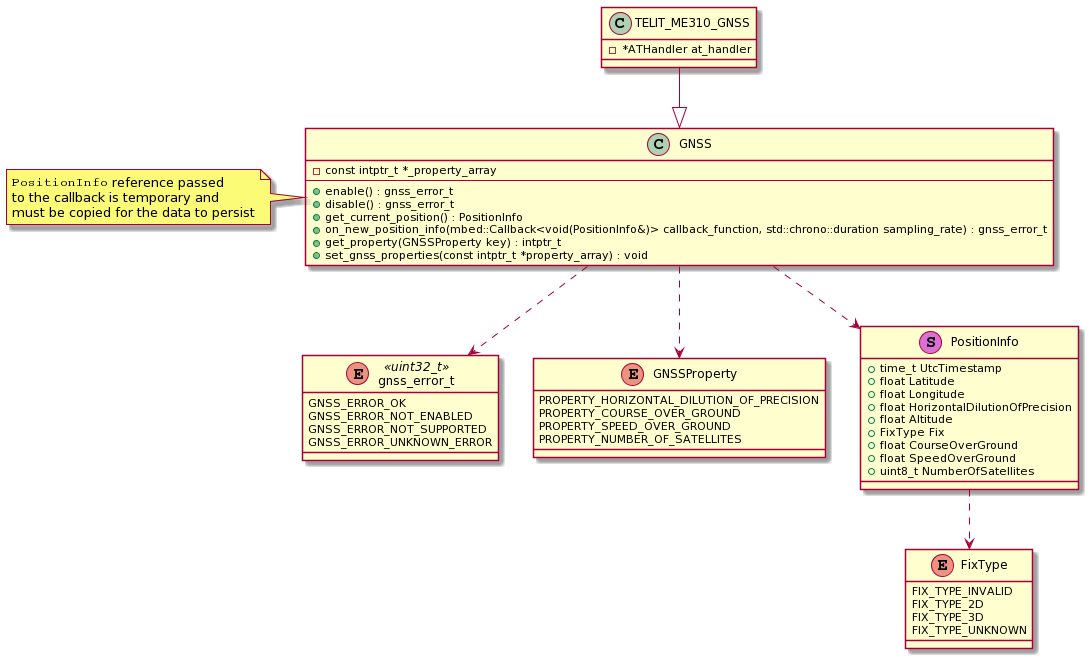
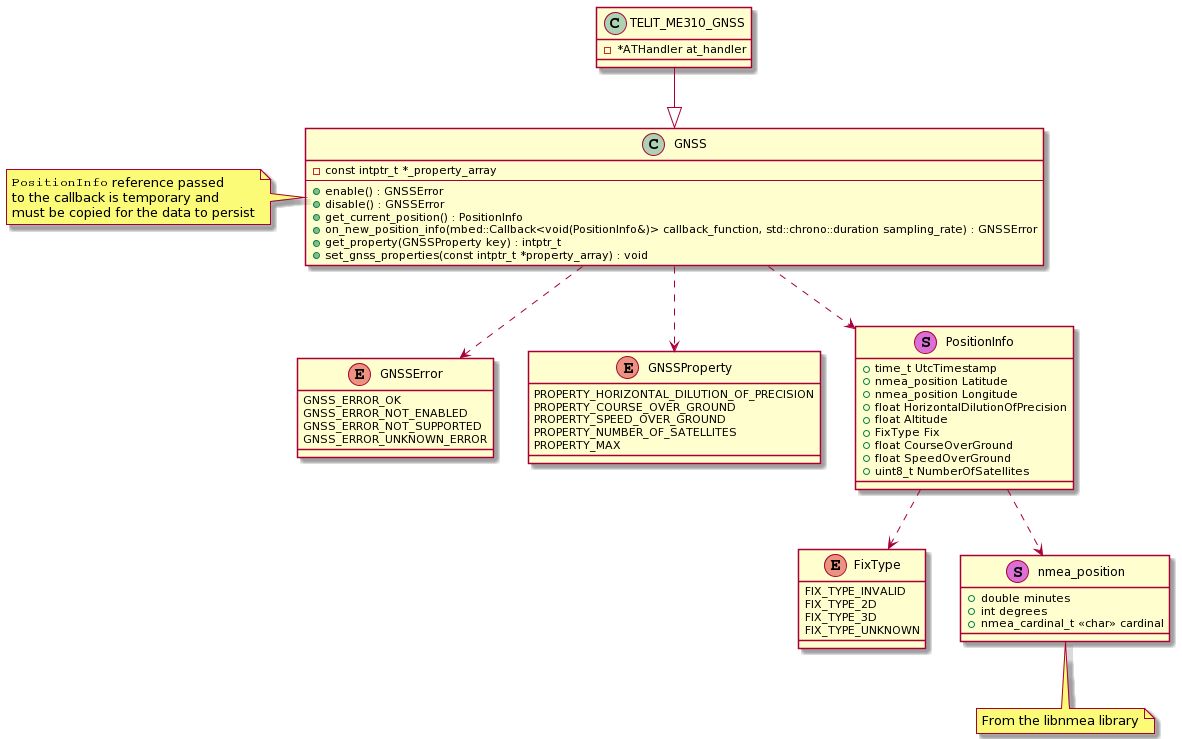
WIP: More work to fill in the service structure -> does not link!

diff --git a/extensions/GNSS/GNSS.h b/extensions/GNSS/GNSS.h
@@ -1,0 +1,119 @@
+/**
+ * ep-oc-mcu
+ * Embedded Planet Open Core for Microcontrollers
+ * 
+ * Built with ARM Mbed-OS
+ *
+ * Copyright (c) 2021 Embedded Planet, Inc.
+ * SPDX-License-Identifier: Apache-2.0
+ * 
+ * Licensed under the Apache License, Version 2.0 (the "License");
+ * you may not use this file except in compliance with the License.
+ * You may obtain a copy of the License at
+ *
+ *     http://www.apache.org/licenses/LICENSE-2.0
+ *
+ * Unless required by applicable law or agreed to in writing, software
+ * distributed under the License is distributed on an "AS IS" BASIS,
+ * WITHOUT WARRANTIES OR CONDITIONS OF ANY KIND, either express or implied.
+ * See the License for the specific language governing permissions and
+ * limitations under the License.
+ *
+ */
+
+#ifndef EP_OC_MCU_EXTENSIONS_GNSS_H_
+#define EP_OC_MCU_EXTENSIONS_GNSS_H_
+
+#include "mbed.h"
+
+#include <stdlib.h>
+#include <stdio.h>
+#include <string.h>
+
+#include "nmea.h"
+
+namespace ep
+{
+
+/**
+ * A class to expose generic GNSS functionality.
+ */
+class GNSS {
+public:
+
+    /**
+     * Supported features by the GNSS device
+     * 
+     * NOTE! These are used as index to feature table, so the only allowed modification to this is appending
+     *       to the end (just before PROPERTY_MAX). Do not modify any of the existing fields.
+     */
+    enum GNSSProperty {
+        PROPERTY_HORIZONTAL_DILUTION_OF_PRECISION,  // Enable the Horizontal Dilution of Precision (hdop) property
+        PROPERTY_COURSE_OVER_GROUND,                // Enable the Course Over Ground (cog) property
+        PROPERTY_SPEED_OVER_GROUND,                 // Enable the Speed Over Ground property
+        PROPERTY_NUMBER_OF_SATELLITES,              // Enable the number of satellites property
+        PROPERTY_MAX
+    };
+
+    /**
+     * GNSS specific errors
+     */
+    enum GNSSError {
+        GNSS_ERROR_OK = 0,
+        GNSS_ERROR_NOT_ENABLED,
+        GNSS_ERROR_NOT_SUPPORTED,
+        GNSS_ERROR_UNKNOWN_ERROR
+    };
+
+    /**
+     * GNSS fix type
+     */
+    enum FixType {
+        FIX_TYPE_INVALID,
+        FIX_TYPE_2D,
+        FIX_TYPE_3D,
+        FIX_TYPE_UNKNOWN
+    };
+
+    /**
+     * GNSS position information
+     */
+    struct PositionInfo {
+        time_t UtcTimestamp;                    // Date and time in Unix timestamp format
+        nmea_position Latitude;                 // NMEA latitude position
+        nmea_position Longitude;                // NMEA longitude position
+        float HorizontalDilutionOfPrecision;    // Horizontal Dilution of Precision (hdop)
+        float Altitude;                         // Altitude - mean-sea-level (geoid) in meters
+        FixType Fix;                            // Type of fix
+        float CourseOverGround;                 // Course over ground
+        float SpeedOverGround;                  // Speed over ground (km/hr)
+        uint8_t NumberOfSatellites;              // total number of satellites in use
+    };
+
+    /**
+     * Default constructor
+     */
+    GNSS();
+
+    /**
+     * Default destructor
+     */
+    virtual ~GNSS();
+
+    /**
+     * Enable the GNSS device
+     */
+    GNSSError enable();
+
+    /**
+     * Disable the GNSS device
+     */
+    GNSSError disable();
+
+private:
+    const intptr_t *_property_array;
+};
+
+}
+
+#endif /* EP_OC_MCU_EXTENSIONS_GNSS_H_ */

diff --git a/extensions/GNSS/GNSS.cpp b/extensions/GNSS/GNSS.cpp
@@ -1,0 +1,47 @@
+/**
+ * ep-oc-mcu
+ * Embedded Planet Open Core for Microcontrollers
+ * 
+ * Built with ARM Mbed-OS
+ *
+ * Copyright (c) 2021 Embedded Planet, Inc.
+ * SPDX-License-Identifier: Apache-2.0
+ * 
+ * Licensed under the Apache License, Version 2.0 (the "License");
+ * you may not use this file except in compliance with the License.
+ * You may obtain a copy of the License at
+ *
+ *     http://www.apache.org/licenses/LICENSE-2.0
+ *
+ * Unless required by applicable law or agreed to in writing, software
+ * distributed under the License is distributed on an "AS IS" BASIS,
+ * WITHOUT WARRANTIES OR CONDITIONS OF ANY KIND, either express or implied.
+ * See the License for the specific language governing permissions and
+ * limitations under the License.
+ *
+ */
+#include "GNSS.h"
+
+using namespace ep;
+using namespace std::chrono_literals;
+
+GNSS::GNSS()
+{
+
+}
+
+GNSS::~GNSS()
+{
+
+}
+
+GNSS::GNSSError GNSS::enable()
+{
+    return GNSS_ERROR_OK;
+}
+
+GNSS::GNSSError GNSS::disable()
+{
+    return GNSS_ERROR_OK;
+}
+
